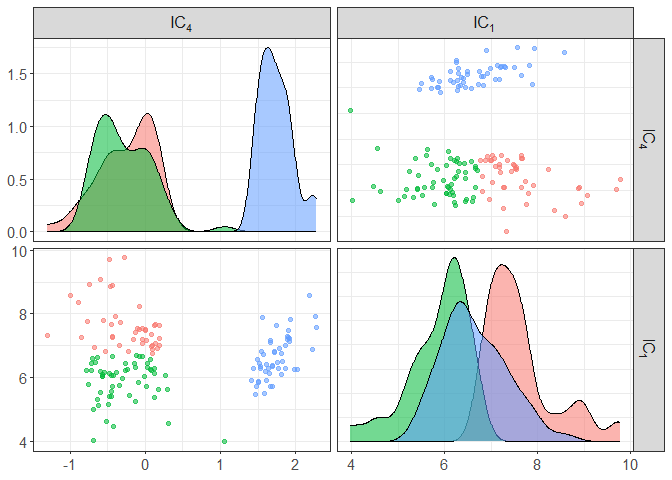
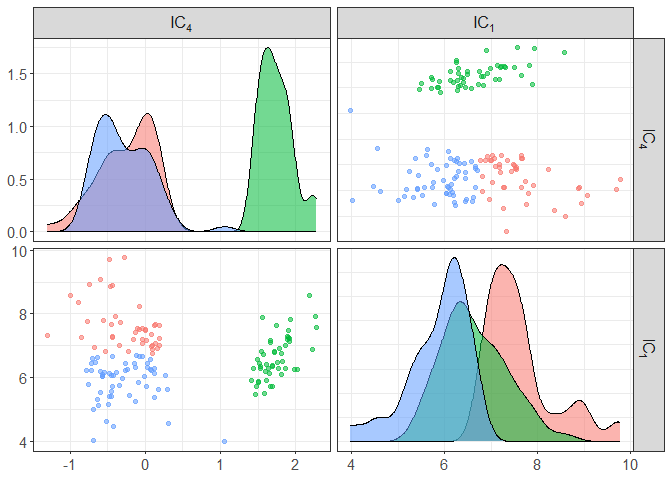
rename `ICS_mcd` to `ICS_mcd_raw` and `ICS_rmcd` to `ICS_mcd_rwt`. closes #24

diff --git a/README.md b/README.md
@@ -27,7 +27,7 @@ devtools::install_github("AuroreAA/ICSClust")
 library(ICSClust)
 #> Loading required package: ICS
 #> Loading required package: mvtnorm
-#> Warning: package 'mvtnorm' was built under R version 4.3.1
+#> Loading required package: ggplot2
 #> Registered S3 method overwritten by 'GGally':
 #>   method from   
 #>   +.gg   ggplot2
@@ -46,8 +46,8 @@ summary(ICS_out)
 #> Information on the algorithm:
 #> QR: TRUE
 #> whiten: FALSE
-#> fix_signs: scores
 #> center: FALSE
+#> fix_signs: scores
 #> 
 #> The generalized kurtosis measures of the components are:
 #>   IC.1   IC.2   IC.3   IC.4 
@@ -153,8 +153,8 @@ table(ICS_out$clusters, iris[,5])
 #>    
 #>     setosa versicolor virginica
 #>   1      0         25        19
-#>   2      1         25        31
-#>   3     49          0         0
+#>   2     49          0         0
+#>   3      1         25        31
 component_plot(ICS_out$ICS_out, select = ICS_out$select, clusters = as.factor(ICS_out$clusters))
 ```
 
@@ -164,14 +164,14 @@ component_plot(ICS_out$ICS_out, select = ICS_out$select, clusters = as.factor(IC
 
 # to change the scatter pair
 ICS_out <- ICSClust(X, nb_select = 1, nb_clusters = 3,
-                ICS_args = list(S1 = ICS_mcd, S2 = ICS_cov,
+                ICS_args = list(S1 = ICS_mcd_raw, S2 = ICS_cov,
                                 S1_args = list(alpha = 0.5)))
 table(ICS_out$clusters, iris[,5])
 #>    
 #>     setosa versicolor virginica
 #>   1      0          5        26
-#>   2     50          0         0
-#>   3      0         45        24
+#>   2      0         45        24
+#>   3     50          0         0
 component_plot(ICS_out$ICS_out, clusters = as.factor(ICS_out$clusters))
 ```
 
@@ -182,7 +182,7 @@ component_plot(ICS_out$ICS_out, clusters = as.factor(ICS_out$clusters))
 
 # to change the criteria to select the invariant components
 ICS_out <- ICSClust(X, nb_clusters = 3,
-                ICS_args = list(S1 = ICS_mcd, S2 = ICS_cov,
+                ICS_args = list(S1 = ICS_mcd_raw, S2 = ICS_cov,
                                 S1_args = list(alpha = 0.5)),
                 criterion = "normal_crit",
                 ICS_crit_args = list(level = 0.1, test = "anscombe.test",
@@ -198,7 +198,7 @@ component_plot(ICS_out$ICS_out, select = ICS_out$select, clusters = as.factor(IC
 
 # to change the clustering method
 ICS_out <- ICSClust(X, nb_select = 1, nb_clusters = 3,
-                ICS_args = list(S1 = ICS_mcd, S2 = ICS_cov,
+                ICS_args = list(S1 = ICS_mcd_raw, S2 = ICS_cov,
                                 S1_args = list(alpha = 0.5)),
                 method  = "tkmeans_clust",
                 clustering_args = list(alpha = 0.1))
